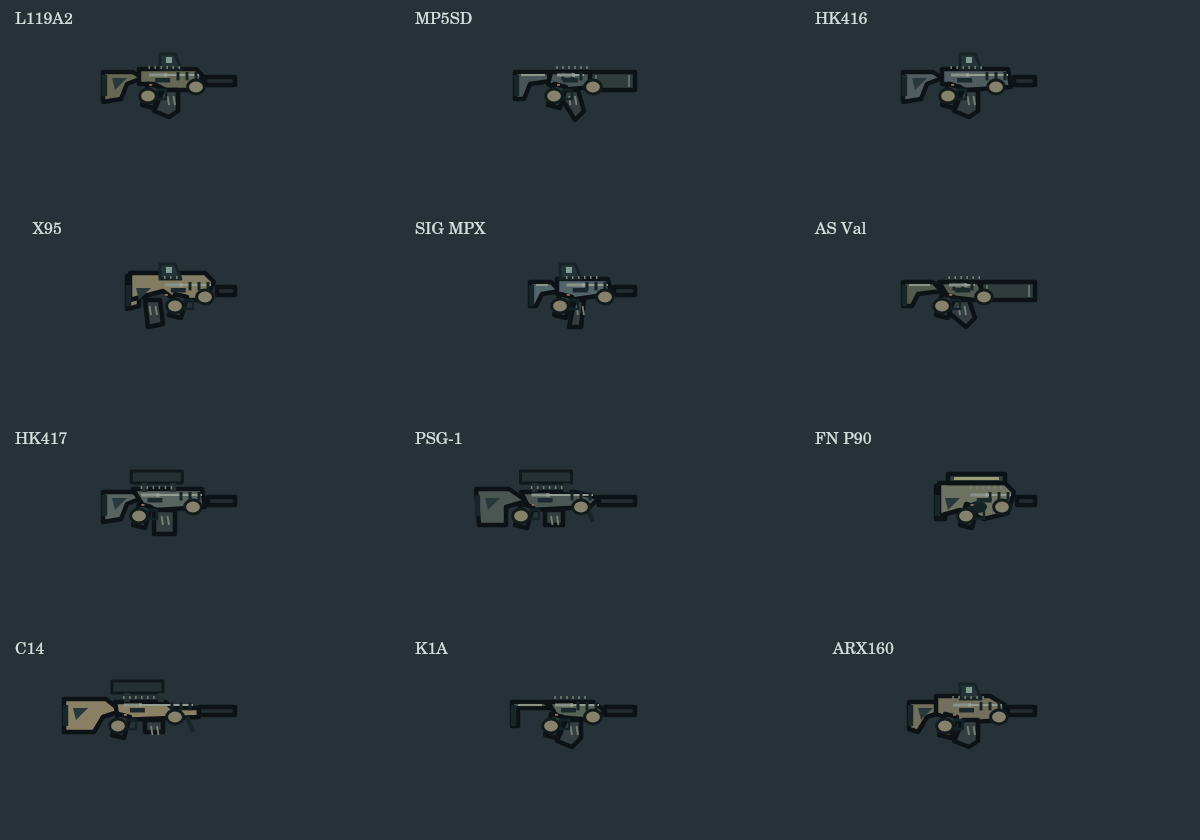
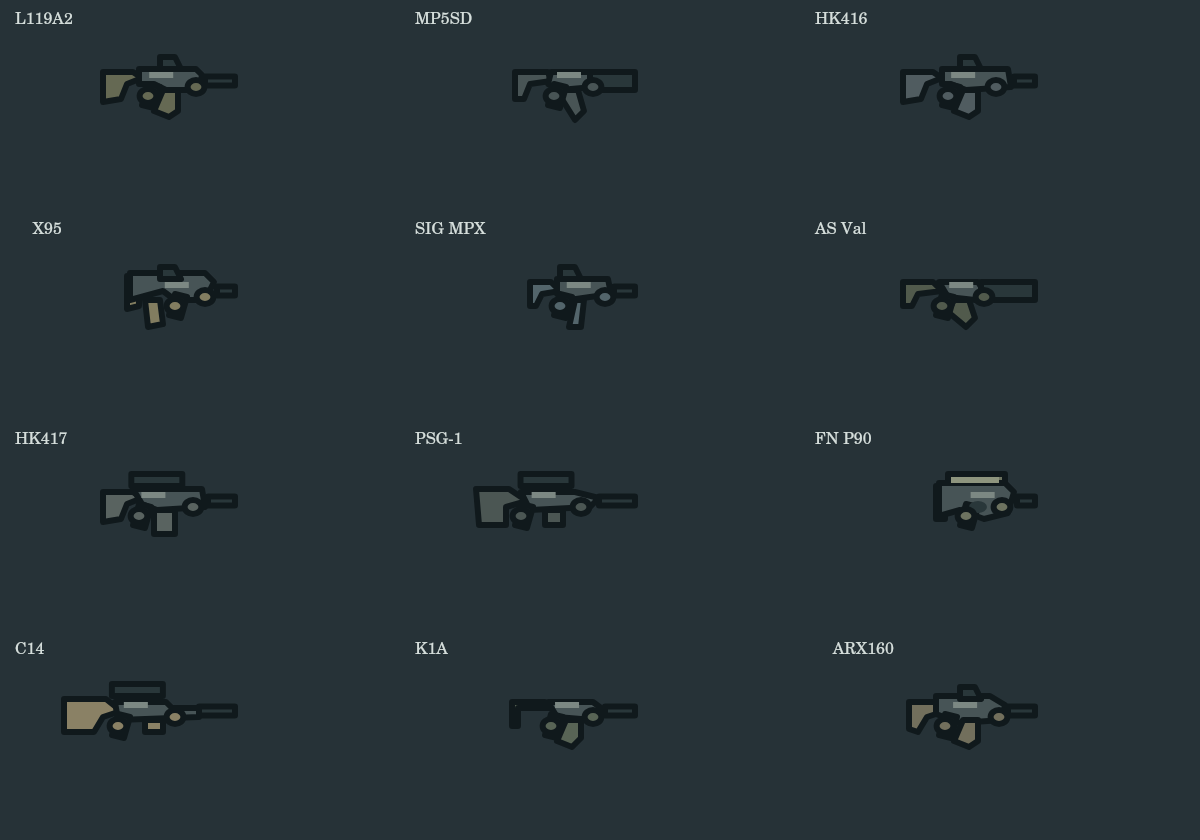
개선: 탑뷰 연속 회전과 전 방향 무기 가시성 및 색면 통일

diff --git a/artifacts/draft-order-player-generator/src/components/minimalOperator.ts b/artifacts/draft-order-player-generator/src/components/minimalOperator.ts
@@ -1,9 +1,8 @@
 import type { RealtimeUnitState } from '../domain/realtime/TacticalRealtimeSimulation';
-import { paintWeaponPart, weaponPart, weaponUp } from './weaponParts';
+import { paintWeaponPart, weaponPart } from './weaponParts';
 import { muzzlePosition } from '../domain/operatorVisuals';
 
 export type PartLoader = (file:string) => HTMLImageElement;
-const MASKED = new Set(['COLLIER','MEDVED','REUSS','MARCHAND','성곽','SAVELLI']);
 
 // 창작 군장의 식별용 조합입니다. 실부대 지급품이나 미구현 가젯 효과를 뜻하지 않습니다.
 const KITS:Record<string,{color:string;pouches:number;pack:number;tool:'shells'|'radio'|'optic'|'probe'|'case'|'charge'|'plate'|'roll'|'coil'|'lamp'|'drone'|'battery'|'interceptor'}>={
@@ -20,36 +19,6 @@ const KITS:Record<string,{color:string;pouches:number;pack:number;tool:'shells'|
   '성곽':{color:'#586352',pouches:3,pack:17,tool:'battery'},
   SAVELLI:{color:'#434E48',pouches:2,pack:10,tool:'interceptor'},
 };
-
-/** 몸체 위에 조끼·파우치·운반 장비를 같은 축척으로 조립합니다. 양쪽 장비는 대칭입니다. */
-function paintKit(ctx:CanvasRenderingContext2D,callSign:string,view:'front'|'back'|'side'):void {
-  const kit=KITS[callSign];if(!kit)return;
-  const box=(x:number,y:number,w:number,h:number,color=kit.color)=>{ctx.fillStyle=color;ctx.fillRect(x,y,w,h);ctx.strokeRect(x,y,w,h);};
-  ctx.strokeStyle='#11191A';ctx.lineWidth=1.2;ctx.lineJoin='round';
-  if(view==='side'){
-    box(-13,-12,kit.pack*.45,17);box(2,-10,5,15);
-    box(4,-3,4,6,'#8A856A');
-  }else if(view==='back'){
-    box(-kit.pack/2,-13,kit.pack,19);box(-kit.pack/2+2,-10,kit.pack-4,7,'#697365');
-    for(const x of [-kit.pack/2+1,kit.pack/2-3])box(x,-13,2,19,'#303C37');
-  }else{
-    box(-9,-13,18,19);box(-7,-15,3,8);box(4,-15,3,8);
-    for(let i=0;i<kit.pouches;i++)box(-8+i*16/kit.pouches,-2,16/kit.pouches-1,7,'#777861');
-  }
-  // 어깨 바깥 장비를 남겨 축소된 중계에서도 각 인물의 윤곽이 구별되게 합니다.
-  const x=view==='side'?-12:-kit.pack/2-3;
-  if(kit.tool==='drone'){box(x-3,-13,9,10,'#59666B');for(const y of [-12,-6]){box(x-5,y,2,4,'#252C2B');box(x+6,y,2,4,'#252C2B');}box(x,-11,3,3,'#899B91');}
-  else if(kit.tool==='battery'){box(x-3,-13,9,15,'#65715A');box(x-1,-16,5,3,'#303C37');ctx.beginPath();ctx.moveTo(x+6,-10);ctx.lineTo(x+9,-10);ctx.lineTo(x+9,5);ctx.lineTo(x+3,5);ctx.stroke();}
-  else if(kit.tool==='interceptor'){box(x-2,-16,7,6,'#718078');for(const dx of [0,4])box(x+dx,-9,2,15,'#343E3B');box(x,-18,3,2,'#879991');}
-  else if(kit.tool==='plate'){box(x,-16,3,24,'#8B9386');box(x+4,-17,2,23,'#5D6966');}
-  else if(kit.tool==='charge'){for(const dx of [0,4])box(x+dx,-17,3,20,'#90896E');}
-  else if(kit.tool==='roll'){box(x-2,-9,6,19,'#8A8970');box(x-2,-4,6,2,'#343E35');}
-  else if(kit.tool==='probe'||kit.tool==='radio'){box(x,-12,5,10,'#303C3D');ctx.beginPath();ctx.moveTo(x+2,-12);ctx.lineTo(x+(kit.tool==='probe'?5:2),-24);ctx.stroke();}
-  else if(kit.tool==='case'){box(x-2,-10,7,14,'#677981');box(x,-12,3,2,'#242F35');}
-  else if(kit.tool==='coil'){ctx.fillStyle='#67777A';ctx.beginPath();ctx.arc(x+2,-5,5,0,Math.PI*2);ctx.fill();ctx.stroke();ctx.beginPath();ctx.arc(x+2,-5,2,0,Math.PI*2);ctx.stroke();}
-  else if(kit.tool==='shells'){for(let i=0;i<3;i++)box(x+i*3,-12,2,7,'#9A8764');}
-  else{box(x,-14,5,7,'#293B40');box(x+1,-13,3,2,kit.tool==='optic'?'#829D97':'#B6B59B');}
-}
 
 /** 편성 카드도 같은 각진 헬멧·바이저와 개인 군장색을 사용합니다. */
 export function minimalPortrait(callSign:string):string {
@@ -68,56 +37,52 @@ export function weaponSilhouette(name:string):'carbine'|'suppressed'|'bullpup'|'
   return 'carbine';
 }
 
-/** 세 방향 파츠는 화면 위로 서 있고, 무기는 실제 월드 방향을 따릅니다. */
-export function operatorDirection(facing:number):{view:'front'|'back'|'side';mirror:number} {
-  return Math.abs(Math.sin(facing))>.72?{view:Math.sin(facing)>0?'front':'back',mirror:1}:{view:'side',mirror:Math.cos(facing)<0?-1:1};
-}
-
-/** 실제 이동·자세·사격 사건으로만 파츠를 움직이며 엔진의 총구 좌표를 그대로 사용합니다. */
+/** 가파른 탑뷰의 한 로컬 좌표계를 머리·군장·팔·총기가 연속적으로 공유합니다. */
 export function paintMinimalOperator(ctx:CanvasRenderingContext2D,unit:RealtimeUnitState,time:number,shotAt:number|undefined,_asset:PartLoader,reducedMotion=false):boolean {
-  const direction=operatorDirection(unit.facing),kit=KITS[unit.callSign]??KITS.MAGPIE;
-  const moving=Math.hypot(unit.velocity.x,unit.velocity.y)>1&&unit.alive;
+  const kit=KITS[unit.callSign]??KITS.MAGPIE,part=weaponPart(unit.weaponName??'');
   const down=Boolean(unit.downed)||!unit.alive,crouch=unit.locomotion==='crouch';
+  const moving=Math.hypot(unit.velocity.x,unit.velocity.y)>1&&unit.alive;
   const step=!reducedMotion&&moving&&!down?Math.sin(time*(unit.locomotion==='sprint'?15:10)):0;
-  const bob=step*.5,age=shotAt===undefined?1:time-shotAt;
-  const kick=!reducedMotion&&age>0&&age<.14?Math.sin(age/.14*Math.PI)*1.2:0;
-  const muzzle=muzzlePosition(unit.callSign,unit.position,unit.facing),up=weaponUp(unit.facing),part=weaponPart(unit.weaponName??'');
-  const weapon=()=>{
-    if(down)return;
-    // 총기와 손, 소매가 같은 좌우 보정과 파지점을 공유합니다.
-    for(const [index,[x,y]] of [[part.grip-kick,5],[part.support-kick,2]].entries()){
-      const px=x*.75,py=y*.75*up;
-      const hand={x:muzzle.x+px*Math.cos(unit.facing)-py*Math.sin(unit.facing),y:muzzle.y+px*Math.sin(unit.facing)+py*Math.cos(unit.facing)};
-      ctx.strokeStyle='#111B1E';ctx.lineWidth=6;ctx.lineCap='round';ctx.beginPath();ctx.moveTo(unit.position.x+(index?-8:8),unit.position.y-10+bob);ctx.lineTo(hand.x,hand.y);ctx.stroke();ctx.strokeStyle=kit.color;ctx.lineWidth=3.5;ctx.stroke();
-    }
-    ctx.save();ctx.translate(muzzle.x,muzzle.y);ctx.rotate(unit.facing);ctx.scale(.75,.75*up);ctx.translate(-kick,0);paintWeaponPart(ctx,unit.weaponName??'');
-    if(unit.shieldRaised){ctx.fillStyle='#56666B';ctx.strokeStyle='#0B1115';ctx.lineWidth=2;ctx.fillRect(-6,-16,6,32);ctx.strokeRect(-6,-16,6,32);ctx.fillStyle='#839AA0';ctx.fillRect(-5,-10,4,8);}ctx.restore();
-  };
+  const age=shotAt===undefined?1:time-shotAt,kick=!reducedMotion&&age>0&&age<.14?Math.sin(age/.14*Math.PI)*1.2:0;
+  const muzzle=muzzlePosition(unit.callSign,unit.position,unit.facing),c=Math.cos(unit.facing),s=Math.sin(unit.facing);
+  const dx=muzzle.x-unit.position.x,dy=muzzle.y-unit.position.y;
+  const tip={x:dx*c+dy*s,y:-dx*s+dy*c};
+  const ink='#10191C',shade='#29373A',light='#859080',outline=2;
   ctx.save();ctx.globalAlpha=unit.alive?1:.4;
-  ctx.fillStyle='#04090C55';ctx.beginPath();ctx.ellipse(unit.position.x,unit.position.y+19,14,5,0,0,Math.PI*2);ctx.fill();
-  // 북쪽 사격은 몸 뒤로 가립니다. 총기 전체를 머리 위에 덧그리지 않습니다.
-  if(direction.view==='back')weapon();
-  ctx.save();ctx.translate(unit.position.x,unit.position.y+bob);if(down)ctx.rotate(unit.facing+Math.PI/2);ctx.scale(direction.mirror,crouch?.83:1);
-  const poly=(points:number[][],fill:string)=>{ctx.fillStyle=fill;ctx.strokeStyle='#101A1D';ctx.lineWidth=1.4;ctx.lineJoin='round';ctx.beginPath();points.forEach(([x,y],i)=>i?ctx.lineTo(x,y):ctx.moveTo(x,y));ctx.closePath();ctx.fill();ctx.stroke();};
-  // 각진 어깨, 분리된 허벅지·무릎·부츠로 작은 머리와 연결된 실루엣을 만듭니다.
-  for(const side of [-1,1]){const x=side*(direction.view==='side'?3:5),stride=side*step*2;
-    poly([[x-4,4],[x+4,4],[x+3,16+stride],[x-3,16+stride]],kit.color);
-    poly([[x-3,11+stride],[x+3,11+stride],[x+3,15+stride],[x-3,16+stride]],'#384547');
-    poly([[x-3,17+stride],[x+3,17+stride],[x+4,22+stride],[x-4,22+stride]],'#253235');
+  ctx.fillStyle='#04090C55';ctx.beginPath();ctx.ellipse(unit.position.x,unit.position.y+3,19,15,0,0,Math.PI*2);ctx.fill();
+  ctx.translate(unit.position.x,unit.position.y);ctx.rotate(unit.facing);
+  ctx.strokeStyle=ink;ctx.lineWidth=outline;ctx.lineJoin='round';ctx.lineCap='round';
+  const poly=(points:number[][],fill:string)=>{ctx.fillStyle=fill;ctx.beginPath();points.forEach(([x,y],i)=>i?ctx.lineTo(x,y):ctx.moveTo(x,y));ctx.closePath();ctx.fill();ctx.stroke();};
+  const box=(x:number,y:number,w:number,h:number,fill=kit.color)=>{ctx.fillStyle=fill;ctx.fillRect(x,y,w,h);ctx.strokeRect(x,y,w,h);};
+  // 전신을 세우지 않고 어깨·배낭·뒤로 짧게 보이는 부츠를 위에서 읽게 합니다.
+  for(const side of [-1,1]){
+    const rear=down?-29:crouch?-17:-22+side*step*2;
+    poly([[rear,side*4],[rear+10,side*4],[rear+9,side*10],[rear-2,side*9]],shade);
   }
-  poly([[-12,-15],[-7,-19],[7,-19],[12,-15],[10,5],[6,8],[-7,8],[-10,4]],kit.color);
-  ctx.save();ctx.scale(direction.view==='side'?.85:1,1);paintKit(ctx,unit.callSign,direction.view);ctx.restore();
-  ctx.save();ctx.translate(0,12*Math.max(0,-Math.sin(unit.facing)));
-  poly([[-4,-22],[4,-22],[4,-17],[-4,-17]],'#6D756A');
-  poly([[-9,-30],[-6,-35],[5,-35],[9,-30],[8,-23],[4,-20],[-5,-21],[-9,-25]],MASKED.has(unit.callSign)?'#414D50':'#777F72');
-  poly([[-10,-29],[-8,-35],[-3,-38],[6,-37],[10,-32],[9,-28],[3,-29],[-6,-27]],kit.color);
-  if(direction.view!=='back'){
-    poly(direction.view==='side'?[[0,-29],[10,-29],[10,-25],[1,-24]]:[[-8,-29],[8,-29],[7,-25],[-7,-25]],'#15282D');
-    ctx.fillStyle='#92AAA2';ctx.fillRect(direction.view==='side'?6:-6,-28,3,1);
-    if(MASKED.has(unit.callSign)){poly([[-4,-24],[4,-24],[5,-20],[-3,-20]],'#27373C');ctx.fillStyle='#657570';ctx.fillRect(-2,-23,3,2);}
-  }else{ctx.fillStyle='#323F41';ctx.fillRect(-6,-29,12,3);ctx.fillRect(-3,-34,6,4);}
-  ctx.fillStyle='#354548';ctx.fillRect(direction.view==='side'?-8:-10,-28,3,7);
-  ctx.restore();
-  ctx.fillStyle=unit.side==='공격'?'#2FD4C4':'#F0873C';ctx.fillRect(-11,-11,2,4);
-  ctx.restore();if(direction.view!=='back')weapon();ctx.restore();return true;
+  poly([[-16,-10],[-8,-14],[2,-13],[7,-7],[6,9],[-1,14],[-14,11],[-18,3]],kit.color);
+  box(-20,-kit.pack*.42,8,kit.pack*.84,shade);
+  // 군장 식별은 외곽의 큰 물체 한두 개로 유지합니다.
+  if(kit.tool==='charge'||kit.tool==='plate'){box(-17,11,18,4,light);if(kit.tool==='charge')box(-15,16,12,3,kit.color);}
+  else if(kit.tool==='drone'){box(-17,10,12,6,shade);box(-18,9,3,3,light);box(-8,15,3,3,light);}
+  else if(kit.tool==='battery'){box(-17,10,11,8,kit.color);box(-14,9,5,2,light);}
+  else if(kit.tool==='interceptor'){box(-17,11,13,4,shade);box(-13,15,4,5,light);}
+  else if(kit.tool==='coil'){ctx.fillStyle=light;ctx.beginPath();ctx.arc(-12,14,5,0,Math.PI*2);ctx.fill();ctx.stroke();}
+  else if(kit.tool==='roll'){box(-19,10,16,6,light);}
+  else if(kit.tool==='radio'){box(-15,10,8,7,shade);ctx.beginPath();ctx.moveTo(-15,12);ctx.lineTo(-24,12);ctx.stroke();}
+  else{for(let i=0;i<Math.min(3,kit.pouches);i++)box(-17+i*5,11,4,6,light);}
+  // 같은 두 면의 헬멧이 모든 방향에서 회전하므로 특정 각도에서 높이가 바뀌지 않습니다.
+  poly([[-14,-6],[-10,-11],[-2,-12],[5,-7],[6,1],[0,6],[-10,5],[-15,0]],shade);
+  poly([[-12,-6],[-9,-10],[-2,-10],[3,-6],[3,0],[-2,3],[-10,2]],kit.color);
+  box(-9,-12,8,3,light);box(-8,4,6,3,shade);
+  ctx.fillStyle=unit.side==='공격'?'#2FD4C4':'#F0873C';ctx.fillRect(-18,-5,2,5);
+  if(!down){
+    for(const [index,[x,y]] of [[part.grip-kick,5],[part.support-kick,2]].entries()){
+      const hand={x:tip.x+x*.75,y:tip.y+y*.75},shoulder={x:2,y:index?10:-10};
+      ctx.strokeStyle=ink;ctx.lineWidth=7;ctx.beginPath();ctx.moveTo(shoulder.x,shoulder.y);ctx.lineTo(hand.x,hand.y);ctx.stroke();ctx.strokeStyle=kit.color;ctx.lineWidth=3;ctx.stroke();
+    }
+    // 무기는 언제나 전방에 그립니다. 270도도 별도 가림·거울 반전 분기가 없습니다.
+    ctx.save();ctx.translate(tip.x,tip.y);ctx.scale(.75,.75);ctx.translate(-kick,0);paintWeaponPart(ctx,unit.weaponName??'',kit.color,outline/.75);
+    if(unit.shieldRaised){ctx.fillStyle=shade;ctx.strokeStyle=ink;ctx.lineWidth=outline/.75;ctx.fillRect(-5,-18,7,36);ctx.strokeRect(-5,-18,7,36);ctx.fillStyle=light;ctx.fillRect(-4,-9,5,9);}ctx.restore();
+  }
+  ctx.restore();return true;
 }

diff --git a/artifacts/draft-order-player-generator/src/components/weaponParts.ts b/artifacts/draft-order-player-generator/src/components/weaponParts.ts
@@ -20,36 +20,20 @@ export const WEAPON_PARTS:WeaponPart[]=[
  w('ARX',42,[[-33,-5],[-15,-5],[-10,-2],[-11,3],[-25,4],[-33,1]],[[-42,-3],[-33,-3],[-30,0],[-36,2],[-39,7],[-42,6]],mag,-30,-12,9,'dot','#726F5C'),
 ];
 export function weaponPart(name:string):WeaponPart{return WEAPON_PARTS.find(part=>name.includes(part.id))??WEAPON_PARTS[0];}
-// 왼쪽으로 돌 때 총기 위아래를 복원합니다. 총구 방향과 개머리판 방향은 바꾸지 않습니다.
-export function weaponUp(facing:number):number{return Math.cos(facing)<0?-1:1;}
-export function paintWeaponPart(ctx:CanvasRenderingContext2D,name:string):void{
- const part=weaponPart(name);ctx.strokeStyle='#0C1215';ctx.lineWidth=1.5;ctx.lineJoin='round';
+// 전장에서는 이 도형을 몸체와 함께 회전합니다. 화면 기준 좌우 반전은 하지 않습니다.
+export function paintWeaponPart(ctx:CanvasRenderingContext2D,name:string,accent?:string,outline=2):void{
+ const part=weaponPart(name),ink='#10191C',base='#475456',shade='#29373A',tint=accent??part.color;
+ ctx.strokeStyle=ink;ctx.lineWidth=outline;ctx.lineJoin='round';
  const poly=(points:Point[],fill:string)=>{ctx.fillStyle=fill;ctx.beginPath();points.forEach(([x,y],i)=>i?ctx.lineTo(x,y):ctx.moveTo(x,y));ctx.closePath();ctx.fill();ctx.stroke();};
- poly(part.stock,part.color);poly(part.body,part.color);poly(part.mag,'#343E40');
- poly([[part.grip,1],[part.grip+4,2],[part.grip+2,9],[part.grip-2,8]],'#303A3B');
- ctx.fillStyle=part.suppressor?'#303B3C':'#242E31';ctx.fillRect(-part.barrel,-(part.suppressor?3:1.3),part.barrel,part.suppressor?6:2.6);ctx.strokeRect(-part.barrel,-(part.suppressor?3:1.3),part.barrel,part.suppressor?6:2.6);
- ctx.strokeStyle='#929C91';ctx.lineWidth=.65;ctx.beginPath();ctx.moveTo(-part.length*.65,-2);ctx.lineTo(-part.barrel-2,-2);ctx.stroke();
- ctx.strokeStyle='#182326';ctx.lineWidth=1;for(let x=-part.barrel-3;x>-part.barrel-12;x-=3){ctx.beginPath();ctx.moveTo(x,-3);ctx.lineTo(x,-.2);ctx.stroke();}
- if(part.optic==='scope'){ctx.fillStyle='#253033';ctx.strokeStyle='#10181B';ctx.fillRect(-part.length*.72,-10,17,4);ctx.strokeRect(-part.length*.72,-10,17,4);ctx.fillRect(-part.length*.65,-6,2,3);ctx.fillRect(-part.length*.45,-6,2,3);}
- if(part.optic==='dot'){poly([[-25,-4],[-25,-9],[-20,-9],[-18,-4]],'#253438');ctx.fillStyle='#819C92';ctx.fillRect(-23,-8,2,2);}
- if(part.id==='P90'){ctx.fillStyle='#9A9D76';ctx.fillRect(-27,-8,15,1);ctx.fillStyle='#162226';ctx.beginPath();ctx.ellipse(-19,2,3,2,0,0,Math.PI*2);ctx.fill();}
- if(part.id==='C14'||part.id==='PSG'){ctx.strokeStyle='#192529';ctx.lineWidth=1.5;ctx.beginPath();ctx.moveTo(-16,2);ctx.lineTo(-14,7);ctx.stroke();}
- // 확대된 편성 화면에서도 개머리판·노리쇠·탄창·레일을 구분하는 면 분할입니다.
- const receiver=-part.length*.65;
- ctx.fillStyle='#88928A';ctx.fillRect(receiver,-2.5,6,1);ctx.fillStyle='#1B292C';ctx.fillRect(receiver+2,-1,5,1.5);
- ctx.fillStyle='#9CA397';ctx.fillRect(receiver+5,-2.5,1,1);
- ctx.strokeStyle='#788175';ctx.lineWidth=.5;
- for(let x=receiver;x<receiver+12;x+=2){ctx.beginPath();ctx.moveTo(x,-4);ctx.lineTo(x,-5);ctx.stroke();}
- const rear=part.stock[0][0];ctx.strokeStyle='#18262A';ctx.lineWidth=1.8;ctx.beginPath();ctx.moveTo(rear+.5,-2);ctx.lineTo(rear+.5,5);ctx.stroke();
- if(['MP5SD','AS Val','K1A','MPX'].includes(part.id)){ctx.strokeStyle='#8B9487';ctx.lineWidth=.7;ctx.beginPath();ctx.moveTo(rear+2,-2);ctx.lineTo(part.stock[1][0]-1,-2);ctx.stroke();}
- else{ctx.fillStyle='#28383C';ctx.beginPath();ctx.moveTo(rear+3,-1);ctx.lineTo(rear+8,-1);ctx.lineTo(rear+4,3);ctx.closePath();ctx.fill();}
- if(part.id!=='P90'){
-  const mx=(part.mag[0][0]+part.mag[1][0])/2;ctx.strokeStyle='#758074';ctx.lineWidth=.6;
-  for(const dx of [-1,1]){ctx.beginPath();ctx.moveTo(mx+dx,5);ctx.lineTo(mx+dx+.5,8);ctx.stroke();}
- }
- if(part.suppressor){ctx.strokeStyle='#65716E';ctx.lineWidth=.6;for(const x of [-part.barrel+2,-2]){ctx.beginPath();ctx.moveTo(x,-2);ctx.lineTo(x,2);ctx.stroke();}}
- ctx.strokeStyle='#142327';ctx.lineWidth=.8;ctx.strokeRect(part.grip+3,3,3,3);
- ctx.fillStyle='#9E6E55';ctx.fillRect(receiver,1,1,.6);
- // 파지점은 총기별 권총손잡이·핸드가드에 고정합니다.
- ctx.strokeStyle='#111B1C';ctx.lineWidth=1;ctx.fillStyle='#86816B';for(const [x,y] of [[part.grip,5],[part.support,2]]){ctx.beginPath();ctx.ellipse(x,y,2.8,2.3,0,0,Math.PI*2);ctx.fill();ctx.stroke();}
+ const box=(x:number,y:number,w:number,h:number,fill:string)=>{ctx.fillStyle=fill;ctx.fillRect(x,y,w,h);ctx.strokeRect(x,y,w,h);};
+ poly(part.stock,tint);poly(part.body,base);poly(part.mag,tint);
+ poly([[part.grip,1],[part.grip+4,2],[part.grip+2,9],[part.grip-2,8]],shade);
+ box(-part.barrel,-(part.suppressor?3:1.5),part.barrel,part.suppressor?6:3,shade);
+ // 잔선 대신 리시버 상면과 광학 장치만 큰 면으로 남깁니다.
+ ctx.fillStyle='#7C8883';ctx.fillRect(-part.length*.65,-3,8,2);
+ if(part.optic==='scope'){box(-part.length*.72,-9,17,4,shade);}
+ if(part.optic==='dot')poly([[-25,-4],[-25,-8],[-20,-8],[-18,-4]],shade);
+ if(part.id==='P90'){ctx.fillStyle='#8E957E';ctx.fillRect(-28,-8,16,2);ctx.fillStyle=shade;ctx.beginPath();ctx.ellipse(-19,2,3,2,0,0,Math.PI*2);ctx.fill();}
+ // 손도 군장과 같은 저채도 강조색을 사용합니다.
+ ctx.fillStyle=tint;for(const [x,y] of [[part.grip,5],[part.support,2]]){ctx.beginPath();ctx.ellipse(x,y,2.8,2.3,0,0,Math.PI*2);ctx.fill();ctx.stroke();}
 }

diff --git a/docs/PROJECT_STATE.md b/docs/PROJECT_STATE.md
@@ -12,7 +12,7 @@
 
 ## 최신 결정 — 이전 요청을 대체함
 
-- 아트는 **미니멀 밀리터리**: 2~3등신, 저채도 군장색, 굵은 외곽선, 64/128px 파츠, 앞·뒤·옆 조립입니다.
+- 아트는 **미니멀 밀리터리**: 저채도 군장색, 굵은 외곽선, 가파른 탑뷰의 파츠 조립입니다. 이전의 서 있는 2~3등신·앞/뒤/옆 교체 방식은 최신 피드백으로 중단했습니다.
 - 실사형 전신 시트 대량 생성, 모든 프레임 512px 기준, 실사 맵/노이즈/후처리 확장은 중단했습니다. 기존 원본은 삭제하지 않고 이력으로 보존합니다.
 - 몸체·머리·장비·무기와 손을 분리하고 실제 상태에 따른 작은 움직임을 사용합니다. 상세 고증을 추측으로 완료 처리하지 않습니다.
 - 전술 지도는 실제 벽/통로/엄폐와 일치해야 합니다. 선택 아군의 시야는 전술 보기에 표시하며 미확인 적의 시야는 공개하지 않습니다.
@@ -65,6 +65,16 @@
 - 새 4시드×2편성×2거점×3진입구 48경기는 공격 37승/수비 11승(A 20/4, B 17/7)입니다. 공격 우세가 남으므로 균형 완료가 아닙니다. 결과 보정이나 AI 수치 변경은 하지 않았습니다.
 - Canvas 11장면·DPR 3 터치, UI 5그룹·타입·빌드 확인. 이전 PNG 선로딩을 제거했습니다. Replit이 제공한 주소는 내부 localhost뿐이고 기존 클라우드 브라우저 로컬 주소 접근은 차단되어 실제 모바일 플레이 미완료입니다.
 - 직전 전술 커밋 d1032e4는 Replit HEAD 519c7116a38e9abb1d21e6857521514d2b5577d3에 포함, clean/HTTP 200/기존 포트 보존 보고를 받았습니다.
+
+## 가파른 탑뷰로 재조립 — 최신 결정
+
+- 얕은 쿼터뷰의 서 있는 인체를 중단했습니다. 현재 2D Canvas에는 3D 카메라 고도 변수가 없으므로 고도를 몇 도 올렸다고 보고하지 않습니다. 머리·어깨·배낭·짧게 보이는 부츠를 위에서 본 배치로 재설계했습니다.
+- 한 로컬 좌표계가 전 방향으로 연속 회전합니다. 정면/측면 교체, cos 부호에 따른 무기 거울 반전, 북향 무기 선행 그리기, 방향별 머리 높이 보정은 제거했습니다. 엔진 총구·총알·시야는 그대로입니다.
+- 무기는 항상 같은 순서로 조립하고 실제 총구를 유지합니다. 12종×8방향에서 몸체 전방 바깥에 무기가 그려진 픽셀을 검사합니다. 이전 270도 가림과 90/270도 좌우 분기 문제를 직접 겨냥했습니다.
+- 머리·군장·총기 외곽선은 월드 2단위로 통일했습니다. 무기의 0.75 축척에 대해 선 두께를 역보정합니다. 줌에 따른 화면 픽셀 크기는 바뀔 수 있습니다.
+- 레일 톱니·노리쇠·탄창 홈·소음기 잔선을 제거하고 바탕/그늘/밝은 면으로 단순화했습니다. 개머리판·탄창·장갑은 각 캐릭터 군장색을 공유합니다. 팀색은 작은 표시 띠에만 사용합니다.
+- 96방향 합성, 8개 경계 앞뒤의 알파 반영 픽셀 연속성, 실제 총구 좌표·반사 없는 균일 축척, 36개 군장 합성, Canvas 11장면·터치, UI 5그룹, 타입·빌드 검사 통과. 구형 방향 선택 함수 검사는 제거하고 실제 새 합성의 연속성·무기 가시성 검사로 대체했습니다.
+- 직전 주무기 커밋 6fcded06은 Replit a6b07457d9b6a16c7d319ba445fe15878ea19deb에 포함, clean/HTTP 200/기존 포트 보존 보고를 받았습니다.
 
 ## 남은 작업의 순서
 
